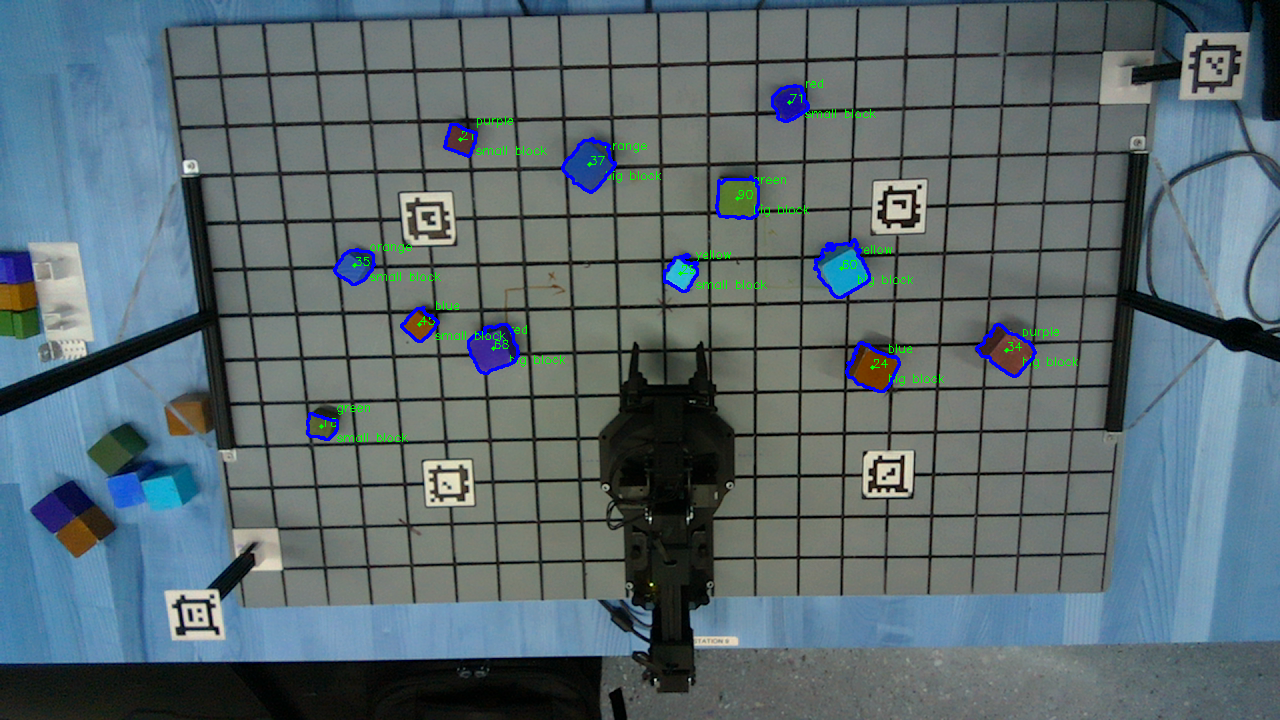
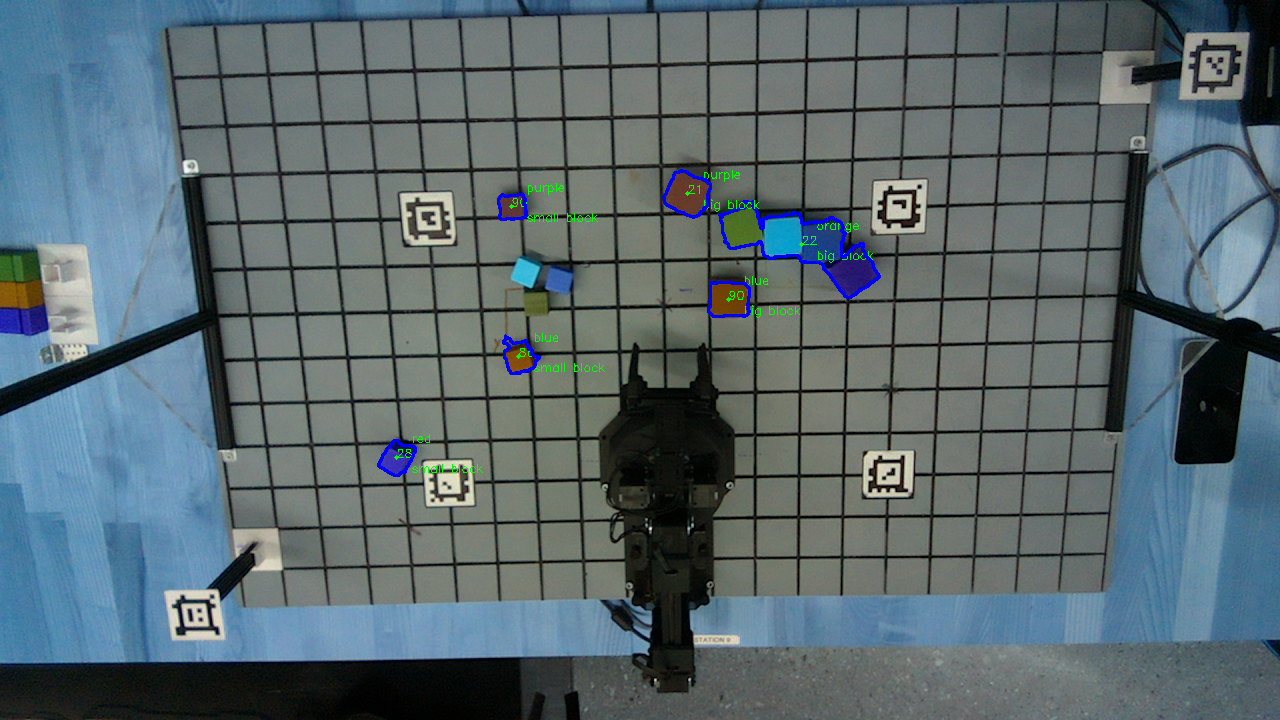
task4 level 2 complete task5;  6 blocks

diff --git a/src/state_machine.py b/src/state_machine.py
@@ -691,7 +691,7 @@ class StateMachine():
         if isbig:
             place_offset = 5
         else:
-            place_offset = 10
+            place_offset = 8
         place_height = 70 # place gripper above block
         pos2[2] = pos2[2] + place_offset
         pos1[2] = pos1[2] + place_height
@@ -774,7 +774,7 @@ class StateMachine():
                     last_effort = effort
                     effort_diff_norm = np.linalg.norm(effort_difference)
                 
-                    if i > 2 and effort_diff_norm > 100:
+                    if i > 2 and effort_diff_norm > 40:
                         print("Auto Place: Effort difference is: ", effort_diff_norm)
                         print("Auto Place: Reach Pos2 in advance")
                         break
@@ -1253,7 +1253,7 @@ class StateMachine():
             block_center, block_orientation = self.camera.transformFromImageToWorldFrame((block.center[1], block.center[0])),block.orientation 
 
             # Filter out possible mis-ditection
-            if block_center[2] < 60: 
+            if block_center[2] < 65: 
                 # print(block_center)
                 # Assume all non-sorted blocks are in the positive plane:    
                 print("--------------------- start a block:No.",block_counter,"---------------------------")
@@ -1342,7 +1342,7 @@ class StateMachine():
         for block in sorted_blocks:
             block_center, block_orientation = self.camera.transformFromImageToWorldFrame((block.center[1], block.center[0])),block.orientation 
  
-            if block_center[2] < 50: 
+            if block_center[2] < 65: 
                 # print(block_center)
                 # Assume all non-sorted blocks are in the positive plane:
                 if block_center [1] >= 0: 
@@ -1351,10 +1351,10 @@ class StateMachine():
                         print("================ Small Block No.",small_block_counter," ",
                           block.color,"=========================")
                         block_center_copy = list(block_center)
-                        block_center_copy[2] = 25
+                        block_center_copy[2] = 20
                         self.auto_pick(target_pos=block_center_copy,block_ori = block_orientation,isbig=False)
                         time.sleep(0.5)
-                        self.auto_place(target_pos=[-300,-25,small_z],target_orientation = 0)
+                        self.auto_place(target_pos=[-300,25,small_z],target_orientation = 0)
                         small_z += 25
                         small_block_counter += 1
                     # Line big blocks in color order in the right negative plane
@@ -1362,7 +1362,7 @@ class StateMachine():
                         print("================ Big Block No.",big_block_counter," ",
                           block.color,"=========================")
                         block_center_copy = list(block_center)
-                        block_center_copy[2] = 38
+                        block_center_copy[2] = 35
                         self.auto_pick(target_pos=block_center_copy,block_ori = block_orientation,isbig=True)
                         time.sleep(0.5)
                         self.auto_place(target_pos=[300,25,big_z],target_orientation = 0)

diff --git a/src/kinematics.py b/src/kinematics.py
@@ -200,12 +200,36 @@ def Target_Pos_Compensation(world_pos):
     y = world_pos[1]
     z = world_pos[2]
     xy_dist = np.sqrt(np.square(x) + np.square(y))
-    if xy_dist < 200:
-        x = x * 0.97
-        y = y * 0.97
-    elif xy_dist < 350:
-        x = x * 0.985
-        y = y * 0.985
+    if z < 40:
+        if xy_dist < 200:
+            x = x * 0.950
+            y = y * 0.950
+        elif xy_dist < 350:
+            x = x * 0.965
+            y = y * 0.965
+        else:
+            x = x * 1.01
+            y = y * 1.01
+    elif z < 90:
+        if xy_dist < 200:
+            x = x * 0.97
+            y = y * 0.97
+        elif xy_dist < 350:
+            x = x * 0.98
+            y = y * 0.98
+        else:
+            x = x * 0.99
+            y = y * 0.99
+    else:
+        if xy_dist < 200:
+            x = x * 0.98
+            y = y * 0.98
+        elif xy_dist < 350:
+            x = x * 0.98
+            y = y * 0.98
+        else:
+            x = x 
+            y = y 
     z_offset = xy_dist * 0.068 + 3
     z = z+z_offset
     return [x,y,z]
@@ -321,10 +345,10 @@ def IK_geometric(pose,  block_ori=None, isVertical_Pick=False):
     print("IK_Kinematics: Success")
 
     # Compensation for joint1 (don't know why)
-    if theta1 < -np.pi/4:
-        theta1 = theta1 - np.pi/180
-    elif theta1 > np.pi/4:
-        theta1 = theta1 + np.pi/180
+    # if theta1 < -np.pi/4:
+    #     theta1 = theta1 - np.pi/180
+    # elif theta1 > np.pi/4:
+    #     theta1 = theta1 + np.pi/180
 
     return True, [theta1,theta2,theta3,theta4,theta5]
     pass
